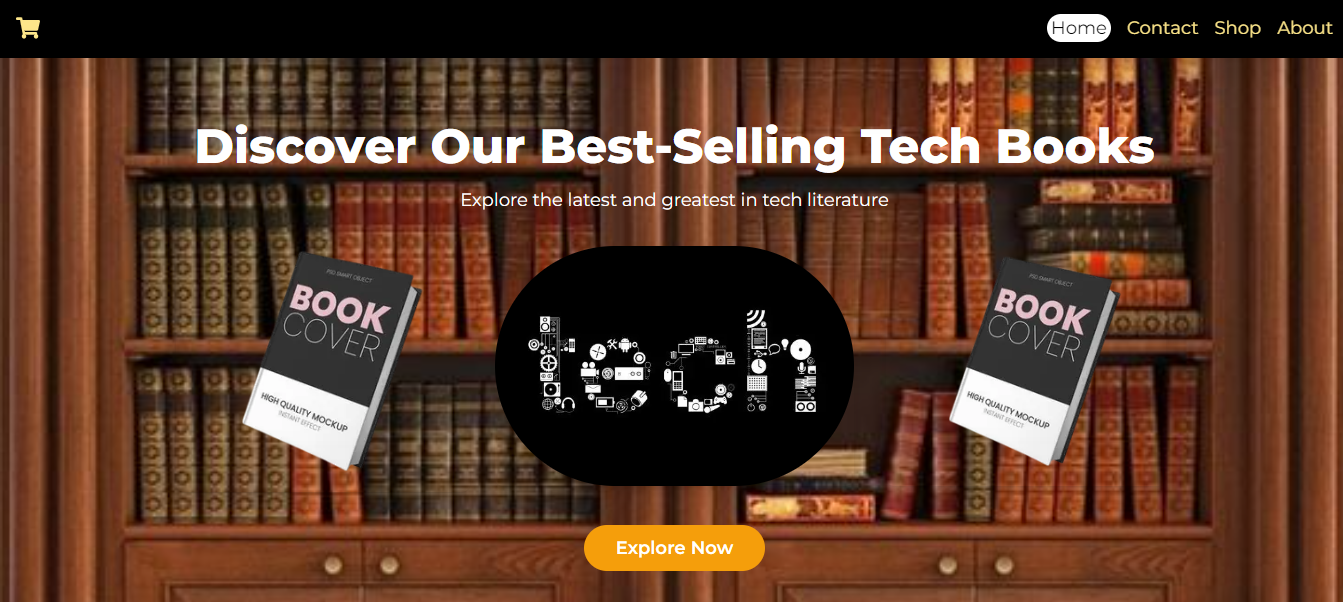
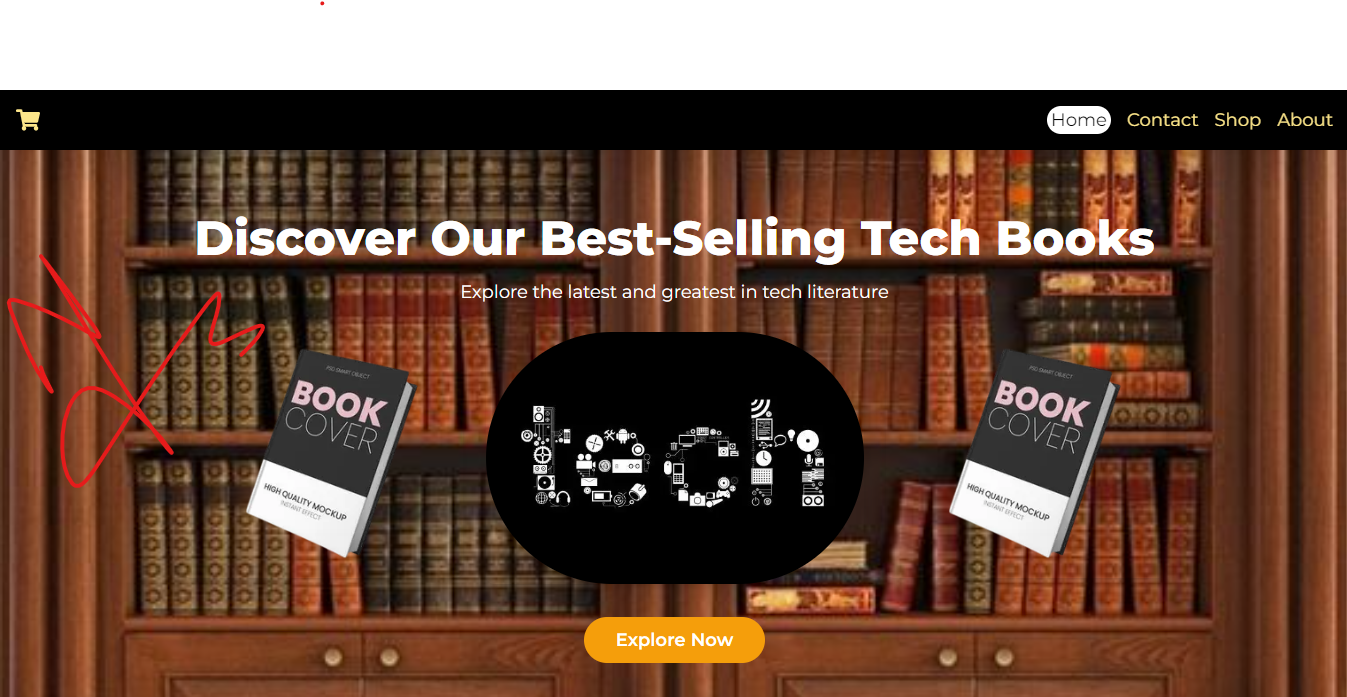
updated project section

diff --git a/app/project/page.tsx b/app/project/page.tsx
@@ -10,6 +10,24 @@ export default function Project() {
       route: "//github.com/NaimalArain13/NaSa_SaaS_ai",
     },
     {
+      img: "/impactoM.png",
+      title: "ImpactoMoney",
+      description: "A Decentralized Funding project build for Palestinians",
+      route: "https://impacto-money.vercel.app/",
+    },
+    {
+      img: "/snx.png",
+      title: "SnX by Nash",
+      description: "Developed this website in the e-commerce marketplace hackathon using Sanity, Nextjs, Tailwind, Shadcn.",
+      route: "https://naimal-marketplace-hackathon03-q2-finale.vercel.app/",
+    },
+    {
+      img: "/bandage.png",
+      title: "Bandage",
+      description: "Built this project in UI/UX hackathon using Next.js, Tailwind, and Shadcn.",
+      route: "https://naimal-ui-ux-hackathon-q2.vercel.app/",
+    },
+    {
       img: "/blog2.png",
       title: "Dynamic Blog Platform",
       description: "Responsive blog platform for writing and sharing articles.",
@@ -39,25 +57,9 @@ export default function Project() {
       description: "Task management app to organize and track daily activities.",
       route: "//my-todo-app-green.vercel.app/",
     },
-    {
-      img: "/atm2.png",
-      title: "ATM CLI",
-      description: "Command-line ATM simulation with essential banking operations.",
-      route: "//github.com/NaimalArain13/cli-ATM-Project",
-    },
-    {
-      img: "/num2.png",
-      title: "Number Guessing CLI",
-      description: "Interactive CLI game to guess numbers, built with TypeScript.",
-      route: "//github.com/NaimalArain13/number-guessing-game13",
-    },
-    {
-      img: "/hello.png",
-      title: "Hello_World App",
-      description: "A Simple Hello World Application build with nextjs and styled with Tailwind",
-      route: "//nextjs-react-milestones.vercel.app/",
-    },
+   
   ];
+  
 
   return (
     

diff --git a/app/about/page.tsx b/app/about/page.tsx
@@ -45,7 +45,7 @@ export default function About() {
             <p className=" pt-9 px-14 tracking-wider text-md">
               I am Naimal Salahuddin.
               <br />
-              <br />I&#39;m a front-end developer passionate about crafting user-friendly web interfaces. Over the past 1.5 years, I&#39;ve been learning and refining my skills in front-end technologies through various hands-on projects. I have a foundational understanding of AI too, having completed a basic course in the field. 
+              <br />I&#39;m an emerging  fullstack  developer with hands-on experience in various projects, continuously enhancing my expertise in Full-Stack Development. Over the past 1.5 years, I&#39;ve been learning and refining my skills in full-stack technologies through various hands-on projects. I have a foundational understanding of AI too, having completed a basic course in the field. 
             </p>
           </div>
           
